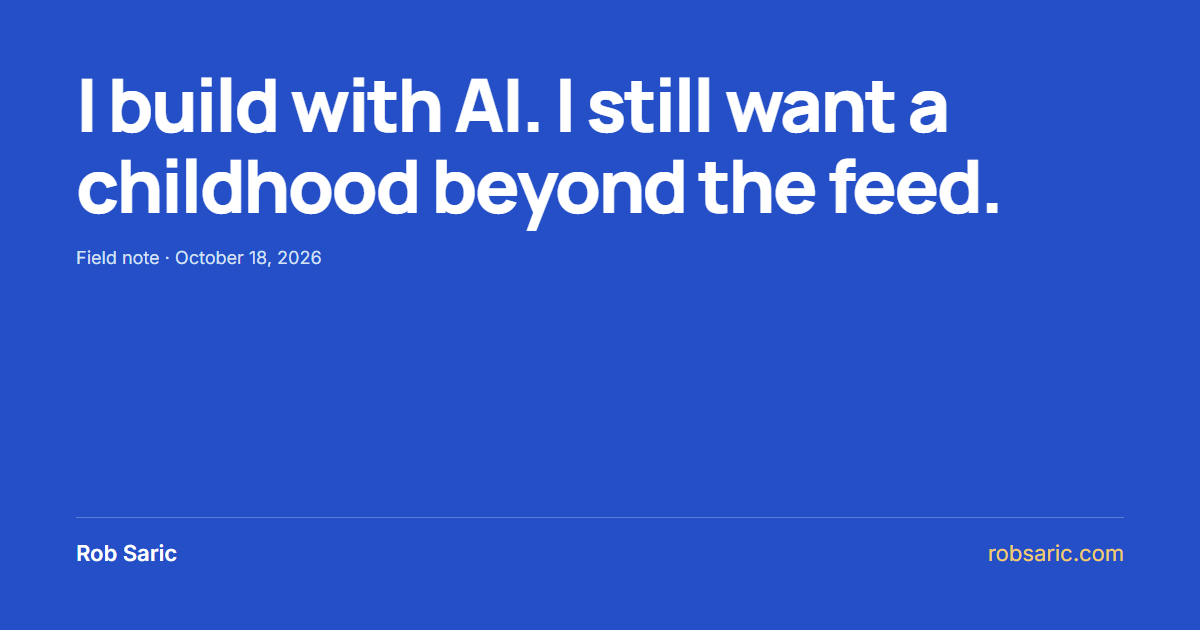
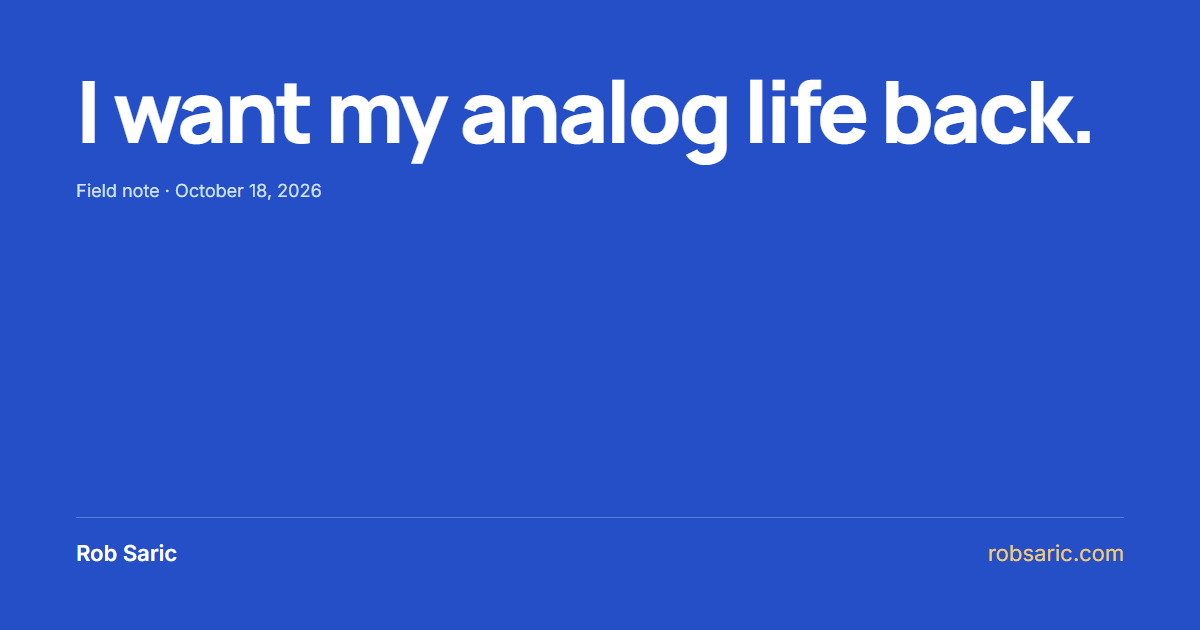
Rewrite analog-life essay with sourced, specific criticism

Changed region(s): [[0.0617, 0.1206, 0.925, 0.3619], [0.0617, 0.3921, 0.2775, 0.4222]]

diff --git a/src/content/notes/2026-10-18-building-with-ai-and-life-beyond-the-feed.md b/src/content/notes/2026-10-18-building-with-ai-and-life-beyond-the-feed.md
@@ -1,6 +1,6 @@
 ---
-title: "I build with AI. I still want a childhood beyond the feed."
-summary: "Being a builder does not give me a pass on the attention economy. It gives me a reason to look harder at what I’m helping create."
+title: "I want my analog life back."
+summary: "I build with AI to take work off people’s plates. But who gets to decide what happens to the time it saves?"
 type: "Field note"
 date: 2026-10-18
 tags: ["AI and trust", "Founder notes"]
@@ -8,26 +8,32 @@ stage: -1
 draft: true
 ---
 
-I build with AI. I use social platforms. I’m also a dad who wants children to have room for a life that doesn’t need an audience.
+I build with AI because I want it to take work off people’s plates. I want the time back, including my own.
 
-I don’t think those positions cancel each other out. But they do create a responsibility.
+I want a conversation without a notification competing with the person in front of me. I want to make something with my hands without turning it into content. That is the analog life I want more of. Children need room for it, but so do adults.
 
-I want kids to be able to be bored, make something up, disagree with a friend, play outside, and have an experience that nobody turns into content. Their attention should not be treated as inventory.
+The trouble is that a faster tool doesn’t necessarily give anyone more time to live.
 
-That is why the work around unplugged childhoods matters to me. [Unplugged Canada](https://www.unpluggedcanada.com/) brings parents together around delaying smartphones and social media. The part I care about is the shared effort. A parent should not have to work through every pressure alone.
+In [*The Reverse Centaur’s Guide to Life After AI*](https://us.macmillan.com/books/9780374621568/thereversecentaursguidetolifeafterai/), Cory Doctorow describes what happens when that relationship goes wrong:
 
-I’m not going to make my children’s private experiences into evidence for an argument here. Parenting can inform what I write without making them the subject.
+> A reverse centaur is a human who is conscripted into acting as an assistant to a machine.
 
-As a builder, I also need to examine the choices closer to home.
+Doctorow distinguishes choosing a tool to help with your work from being made to keep up with an automated system. The question is who gets to set the pace and decide how the tool is used.
 
-Infinite scroll. Autoplay. Another notification asking someone to come back. I want to question those choices before treating them as the obvious way to grow a product.
+That distinction matters to what I’m building for small teams. Imagine an AI tool that drafts a client handoff. The person responsible can check its sources, correct the draft and decide when it is ready. That could remove work. But if the tool sends the handoff automatically and leaves the person to repair whatever it got wrong, generating it faster proves very little. We still have to count the cleanup.
 
-What is the person getting from this? Would we still call it a success if they finished sooner and left? Can they decide when they have had enough?
+Even when a tool does save time, someone can fill the gap with more assignments. A team that finishes sooner should have some say in what happens next. Otherwise, “productivity” can become a polite word for a pace nobody agreed to.
 
-Big Tech deserves scrutiny on those questions. So do small companies, including the ones I’m building.
+Outside work, I see a related struggle over who gets to decide when we are finished.
 
-There is a tension in wanting to grow an audience on LinkedIn while questioning the platforms that mediate our attention. I don’t have a neat way around it. My responsibility is to make what I share worth the time someone gives it, and to avoid turning every part of life into material.
+Meta tells investors: “We generate substantially all of our revenue from advertising.” Its [2025 annual report](https://www.sec.gov/Archives/edgar/data/1326801/000162828026003942/meta-20251231.htm) explains that advertisers pay for impressions or actions such as clicks. Extra time in the Instagram feed creates more opportunities to show ads. I can leave wishing I had spent that time elsewhere, and the visit can still have served the business.
 
-I want the tools we build to help people finish the work they came to do. Then they should be able to put the device down.
+Telling people to exercise more willpower leaves the business model out of the conversation. I want technology that helps me do what I came for and treats leaving as an acceptable outcome.
 
-A useful product can be one you spend less time in.
+For children, that also means adults making room for a life beyond the phone. [Unplugged Canada](https://www.unpluggedcanada.com/) brings families together around delaying smartphones and social media. I care about that shared effort. A parent should not have to work through every pressure alone. I want the unrecorded afternoon to remain an ordinary part of growing up.
+
+And I want some of those afternoons myself. Making something slowly, or being with someone without dividing my attention, deserves a place in the day before the inbox is empty.
+
+I still want to meet people through LinkedIn and grow an audience for my work. I can want that without turning every part of life into material for it.
+
+Before adding the next AI tool, ask what work it will remove and who gets to decide what happens to the time it saves. Include the checking and cleanup. Then choose something away from the screen that you want that time for.

diff --git a/docs/AUDIENCE-AND-PUBLISHING.md b/docs/AUDIENCE-AND-PUBLISHING.md
@@ -10,9 +10,11 @@ The redesign makes the point of view explicit, shows readable titles and dates, 
 
 Two new proposed essays are included in the local preview. They express the views Rob gave during this conversation; they do not invent customer stories or private family scenes. Review these as Rob's first-person writing before any public release:
 - A small team shouldn’t need a department for everything
-- I build with AI. I still want a childhood beyond the feed.
+- I want my analog life back.
 
-The second essay links to the official [Unplugged Canada website](https://www.unpluggedcanada.com/), checked on 2026-10-18. It names their public purpose without implying Rob holds a role there.
+The second essay was revised on 2026-10-19 at Rob's request to include adult analog life, a verified short quote from Cory Doctorow's *The Reverse Centaur's Guide to Life After AI*, and a specific critique of Meta's advertising incentives. The Doctorow quotation is from the actual [book introduction on the publisher's site](https://us.macmillan.com/books/9780374621568/thereversecentaursguidetolifeafterai/), not a review or marketing blurb. Meta's quotation and the explanation of ad impressions/actions are from its [2025 annual report](https://www.sec.gov/Archives/edgar/data/1326801/000162828026003942/meta-20251231.htm). The implications for Rob's work and personal time are his editorial argument, not claims attributed to Doctorow. The handoff scenario is explicitly hypothetical; no new personal anecdote or shipped product behavior is claimed.
+
+The essay also links to the official [Unplugged Canada website](https://www.unpluggedcanada.com/), checked again on 2026-10-19. It names their public purpose without implying Rob holds a role there. The URL and draft boundary stay unchanged.
 
 ## Three recurring subjects
 
@@ -56,23 +58,21 @@ I’m excited by what AI makes possible. I’m more interested in whether the re
 
 The team should get its time back.
 
-### Attention
+### Analog life
 
-I build with AI. I also want children to have a life beyond the feed.
+I want my analog life back.
 
-That creates a responsibility for me as a builder.
+I build with AI because I want it to take work off people’s plates. I want the time back, including my own.
 
-Infinite scroll. Autoplay. Another notification asking someone to come back. I want to question those choices before treating them as the obvious way to grow a product.
+But generating a client handoff faster means very little if someone spends the afternoon repairing what it got wrong. We still have to count the cleanup.
 
-Would we still call the product a success if someone finished sooner and left?
+Even when a tool does save time, someone can fill the gap with more assignments. The people doing the work should have some say in what happens next.
 
-Big Tech deserves scrutiny on that question. So do small companies, including the ones I’m building.
+I want a conversation without a notification competing with the person in front of me. I want to make something with my hands without turning it into content. Children need room for that kind of life, but so do adults.
 
-There is a tension in wanting to grow an audience here while questioning the platforms that mediate our attention. I don’t have a neat answer to it.
+Before adding the next AI tool, ask what work it will remove and who gets to decide what happens to the time it saves.
 
-I can try to make what I share worth your time. And I can build tools that let people finish the work and put the device down.
-
-A useful product can be one you spend less time in.
+I want the work finished and the afternoon back.
 
 ## Check whether it is working
 

diff --git a/docs/REDESIGN-HANDOFF.md b/docs/REDESIGN-HANDOFF.md
@@ -37,6 +37,15 @@ No dependencies, package version, lockfile, backend newsletter handler, tracking
 
 ## Validation
 
+### October 19 analog-life essay revision
+
+- Rewrote the proposed AI/attention essay as **I want my analog life back.** Adult analog life now leads; childhood remains part of the argument. The title, summary, draft sharing image, and companion LinkedIn draft agree. The canonical URL, date, and draft flag are unchanged.
+- Verified the short Cory Doctorow quotation against the actual book introduction on Macmillan's website and the Meta quotation against its 2025 SEC annual report. Sources are linked in the essay. The client-handoff example is explicitly hypothetical; no personal story, product capability, or organizational affiliation was invented.
+- A separate copy review supplied four cuts, all applied before validation. The revised essay removes the generic Big Tech passage and ends with a concrete reader action.
+- Explicit editorial-review build and the final pinned `pnpm gate` passed. Redirects: 112 URLs, zero misses. Content: 11 notes. Layout: 77 checks, no overflow. Generated-output checks passed for all 49 production and 51 review pages, including draft exclusions and valid next-read links.
+- Fresh browser checks passed for homepage, writing index, and essay at 1440, 900, and 390px. Inspected the revised essay at desktop and mobile widths and its 1200x630 sharing image. Keyboard feedback, reduced motion, and no-JavaScript checks also passed.
+- Changed files for this revision: the one draft essay, its sharing image, `docs/AUDIENCE-AND-PUBLISHING.md`, and this handoff. No layout, dependency, lockfile, or published article changed. The revised essay remains a local review draft.
+
 ### October 19 refinement validation
 
 - Final `corepack pnpm@10.27.0 gate`: passed after the sharing-image update. Astro: zero errors; copy lint: zero errors and the same three existing taste warnings. Content: 11 notes. Redirects: 112 URLs with zero misses. Responsive gate: 77 checks across 11 routes and seven widths.
